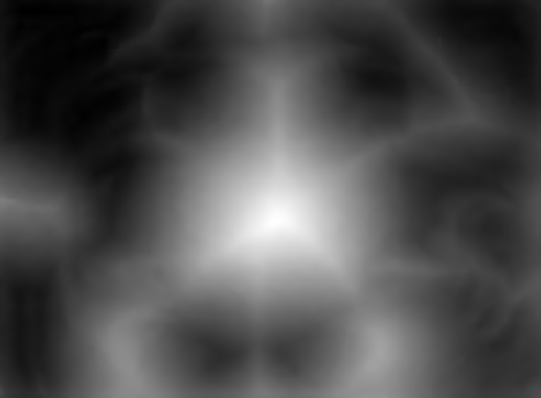
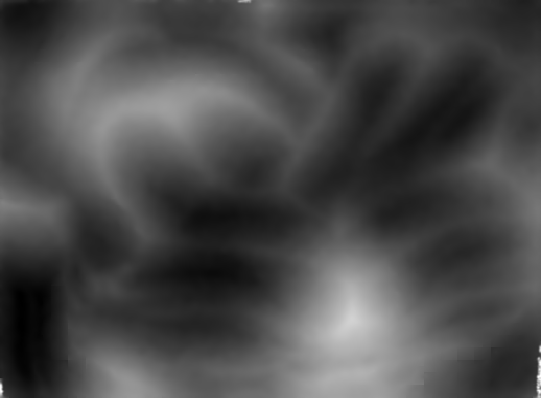
Sandbox World Demo pt. 2

diff --git a/serving/SandboxWorld/js/setupWorld.js b/serving/SandboxWorld/js/setupWorld.js
@@ -180,20 +180,21 @@ function createWorld(){
 		var light0 = new BABYLON.DirectionalLight("light0", new BABYLON.Vector3(0, -1.5, 1), scene);
 		light0.position = new BABYLON.Vector3(0, 50, -50);
 		light0.diffuse = new BABYLON.Color3(1, 1, 1);
-		light0.specular = new BABYLON.Color3(1, 0, 0);
+		light0.specular = new BABYLON.Color3(1, 1, 1);
 		light0.groundColor = new BABYLON.Color3(0, 0, 0);
 		light0.intensity = 0.9;
 		
 		// Skybox
-		var skybox = BABYLON.Mesh.CreateBox("skyBox", 3000.0, scene);
+		skybox = BABYLON.Mesh.CreateBox("skyBox", 3000.0, scene);
 		skybox.position.y += 200;
 		skybox.material = skyboxMaterial;
 	
 		// Mountains
-		var mountains = BABYLON.Mesh.CreateGroundFromHeightMap("ground", "/serving/Game/heightmaps/mountains.jpg", 1875, 1450, 80, 0, 500, scene);
+		var mountains = BABYLON.Mesh.CreateGroundFromHeightMap("ground", "/serving/Game/heightmaps/mountains.jpg", 1875, 1450, 88, 0, 500, scene);
 		mountains.material = mountainMat;
 		mountains.position.x += 35;
 		mountains.position.z += 25;
+		mountains.position.y -= 10;
 	
 		// Create terrain object
 		terrain = BABYLON.Mesh.CreateGroundFromHeightMap("terrain", "/serving/TerrainViewer3D/grassOutput/out.png", 1000*terrainSize, 750*terrainSize, numSubdiv, 0, 150*terrainSize, scene, true, null);
@@ -207,9 +208,38 @@ function createWorld(){
 				engine.stopRenderLoop(changePositions);	
 			}
 		});
+	
+		// SUN
+		var sunSize = 300;
+		var spriteManagerSun = new BABYLON.SpriteManager("spriteManagerSun", "/serving/Game/textures/sun.png", 2, 675, scene);
+		
+		var sun1 = new BABYLON.Sprite("sun1", spriteManagerSun);
+		sun1.position = new BABYLON.Vector3(-50, 625, -1000);
+		sun1.size = 300;
+		var sun2 = new BABYLON.Sprite("sun2", spriteManagerSun);
+		sun2.position = new BABYLON.Vector3(-50, 625, -1005);
+		sun2.size = sunSize;
+		sun2.angle -= 8;
+		
+		// Sky rotations
+		var skyboxZrot = 0.000075;
+		
+		engine.runRenderLoop(function () {
+			sun1.angle -= 0.001;
+			sun2.angle -= 0.001;
+			
+			skybox.rotation.y += 0.000075;
+			skybox.rotation.z += skyboxZrot;
+			
+			if(skybox.rotation.z<-0.7 || skybox.rotation.z>0.7){
+				skyboxZrot = skyboxZrot*-1;
+			}
+		});
 
 	
-	
+		var shadowGenerator00 = new BABYLON.ShadowGenerator(512, light0);
+		shadowGenerator00.useContactHardeningShadow = true;
+		shadowGenerator00.contactHardeningLightSizeUVRatio = 0.0075;
 	
 	
 	

diff --git a/serving/SandboxWorld/js/setupSocketIO.js b/serving/SandboxWorld/js/setupSocketIO.js
@@ -94,9 +94,9 @@ function createAnotherPlayer(uID, uColor){
 	
 	players.get(uID).characterMesh = BABYLON.Mesh.CreateSphere("sphere1", 16, 2, scene);
 	var playerMat = new BABYLON.StandardMaterial("mat_" + uID, scene);
-	playerMat.diffuseColor = new BABYLON.Color3(0,0,0);
-	playerMat.emissiveColor = new BABYLON.Color3(uColor[0],uColor[1],uColor[2]);
-	playerMat.specularColor = new BABYLON.Color3(0,0,0);
+	playerMat.diffuseColor = new BABYLON.Color3(uColor[0],uColor[1],uColor[2]);
+	playerMat.emissiveColor = new BABYLON.Color3(uColor[0]/2,uColor[1]/2,uColor[2]/2);
+	playerMat.specularColor = new BABYLON.Color3(1,1,1);
 	players.get(uID).characterMesh.material = playerMat;
 	
 }
@@ -123,9 +123,6 @@ function updateTerrain(endPositions){
 
 	}
 
-	//console.log('yMax: ' + yMax);
-
-
 	// Start update loop
 	engine.runRenderLoop(changePositions);
 
@@ -138,8 +135,16 @@ function changePositions(){
 		for(x=0; x<numVerts; x++){
 			currentPositions[x*3+1] += yDiff[x];
 		}
-
+	
+		// Step vertice positions
 		terrain.updateVerticesData(BABYLON.VertexBuffer.PositionKind, currentPositions);
+		
+		// Recalculate Normals
+		var normals = [];
+		BABYLON.VertexData.ComputeNormals(currentPositions, terrain.getIndices(), normals);
+		terrain.setVerticesData(BABYLON.VertexBuffer.NormalKind, normals, true);
+	
+	
 		stepCount++;
 }
 

diff --git a/serving/SandboxWorld/js/startGame.js b/serving/SandboxWorld/js/startGame.js
@@ -62,7 +62,7 @@ function setupPlayer(){
 		players.get(mySocketId).trackingBox.visibility = false;
 		
 		//Configure player's tracking box
-		players.get(mySocketId).trackingBox.position = new BABYLON.Vector3(0,100,0);
+		players.get(mySocketId).trackingBox.position = new BABYLON.Vector3(0,300,0);
 		players.get(mySocketId).trackingBox.isPickable = false;
 		
 		//Package player data
@@ -185,7 +185,7 @@ function setupPlayer(){
 		// If player is on an uneven surface... determine the player's next Y position so that they move smoothly down those surfaces
 		function nextPosOnUnevenMesh() {
 			// Origin, Direction, Length
-			var surfaceCheckRay = scene.pickWithRay(new BABYLON.Ray(players.get(mySocketId).trackingBox.position, new BABYLON.Vector3(0, -1, 0), 50));
+			var surfaceCheckRay = scene.pickWithRay(new BABYLON.Ray(players.get(mySocketId).trackingBox.position, new BABYLON.Vector3(0, -1, 0), 295));
 			var originToGroundRatio = 5;
 			
 			if(surfaceCheckRay.hit){

diff --git a/serving/SandboxWorld/js/index.js b/serving/SandboxWorld/js/index.js
@@ -1,5 +1,5 @@
 var spectate = false;
-var spectateSpeed = 40;
+var spectateSpeed = 50;
 
 
 // Socket stuff
@@ -34,8 +34,6 @@ var animationSteps = 200;
 var stepCount = 0;
 var terrainSize = 1.5;
 var numSubdiv = 150;
-
-
 
 //Entry point
 document.addEventListener("DOMContentLoaded", function() {
